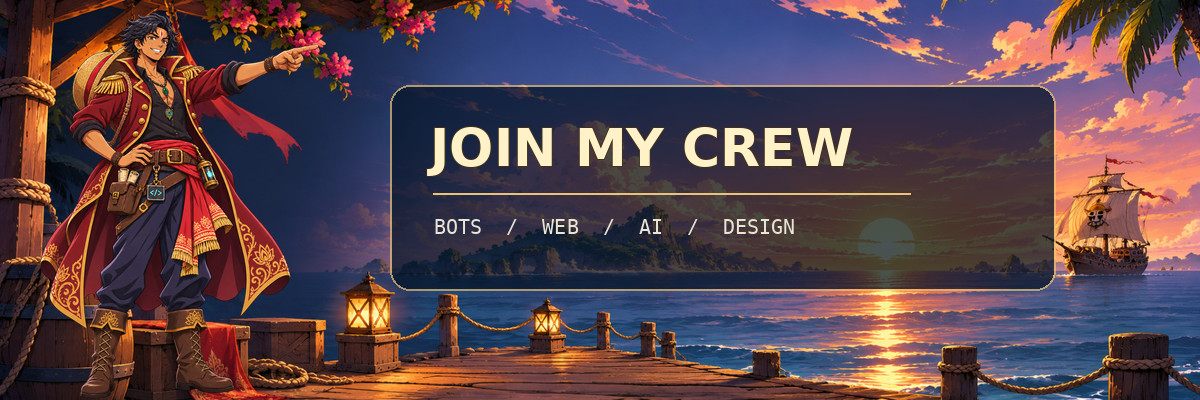
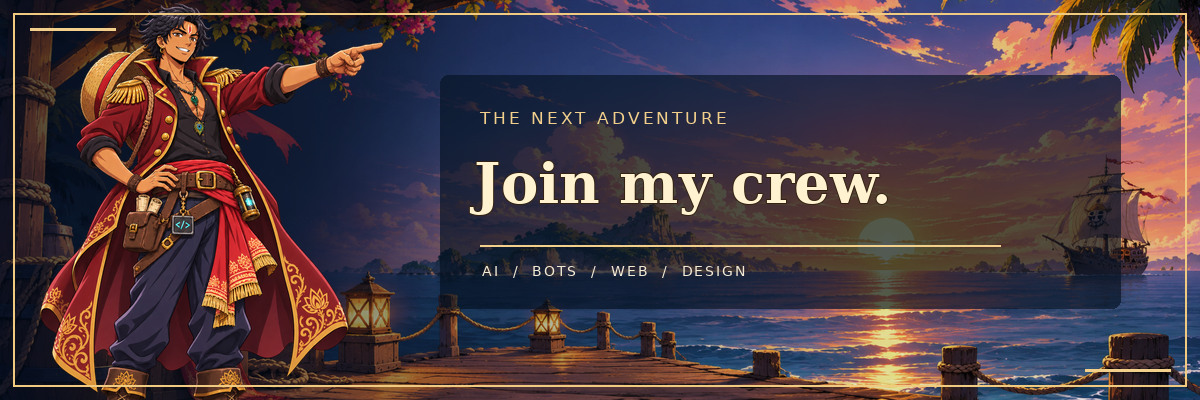
Refine pirate profile visual design

diff --git a/scripts/profile.py b/scripts/profile.py
@@ -105,30 +105,33 @@ def save_gif(frames, path, duration):
 
 
 def hero(path):
-    """Compose a restrained loop from the user's ocean illustration, once."""
+    """Compose a data-independent, subtle light loop over the ocean artwork."""
     source = Image.open(ROOT/'assets/one-piece/hero-ocean.jpg').convert('RGB')
     base = ImageOps.fit(source, (1200, 410), method=Image.Resampling.LANCZOS)
     overlay = Image.new('RGBA', base.size)
     shade = ImageDraw.Draw(overlay)
-    for x in range(750):
-        shade.line((x, 0, x, 410), fill=(2, 13, 31, int(180 * max(0, 1-x/750))))
+    for x in range(780):
+        shade.line((x, 0, x, 410), fill=(2, 13, 31, int(190 * max(0, 1-x/780))))
     base = Image.alpha_composite(base.convert('RGBA'), overlay).convert('RGB')
-    d = ImageDraw.Draw(base)
-    text(d, (48, 56), 'THE GRAND LINE / DEVELOPER PROFILE', 15, '#f4d99d', mono=True)
-    text(d, (42, 104), 'KRISHNA', 76, '#fff1c8', bold=True)
-    d.line((49, 211, 512, 211), fill='#e9c27c', width=2)
-    text(d, (48, 230), 'CAPTAIN OF THE CODE SEAS', 23, '#ffe5a1', bold=True)
-    text(d, (48, 292), 'Developer  •  AI Systems  •  Discord Bots', 17, '#f8f3e6')
-    text(d, (48, 321), 'Web & Creative Design', 17, '#f8f3e6')
+    draw = ImageDraw.Draw(base)
+    draw.rectangle((13, 13, 1186, 396), outline='#d2ae6d', width=2)
+    draw.line((33, 30, 128, 30), fill='#f2d08b', width=3)
+    text(draw, (52, 54), 'THE GRAND LINE  /  DEVELOPER PROFILE', 15, '#f4d99d', mono=True)
+    title_font = ImageFont.truetype('DejaVuSerif-Bold.ttf', 87)
+    draw.text((47, 103), 'KRISHNA', font=title_font, fill='#fff2d0', stroke_width=1, stroke_fill='#3d2617')
+    draw.line((54, 221, 519, 221), fill='#f2d08b', width=2)
+    text(draw, (52, 241), 'CAPTAIN OF THE CODE SEAS', 23, '#ffe5a1', bold=True)
+    text(draw, (53, 304), 'DEVELOPER  /  AI  /  DISCORD  /  WEB', 15, '#f8f3e6', mono=True)
+    text(draw, (53, 330), 'CREATIVE DESIGN  •  INDIA', 15, '#f8f3e6', mono=True)
     frames = []
     for frame in range(16):
         image = base.copy()
-        draw = ImageDraw.Draw(image)
+        d = ImageDraw.Draw(image)
         phase = frame / 16 * math.tau
-        for x, y, offset in [(75, 368, 0), (236, 365, 1.4), (454, 75, 2.6), (550, 355, 4.1)]:
+        for x, y, offset in [(75, 371, 0), (240, 372, 1.4), (454, 70, 2.6), (550, 355, 4.1)]:
             glow = 0.5 + 0.5 * math.sin(phase + offset)
             color = (int(140 + 100*glow), int(115 + 95*glow), int(70 + 85*glow))
-            draw.ellipse((x-2, y-2, x+2, y+2), fill=color)
+            d.ellipse((x-2, y-2, x+2, y+2), fill=color)
         frames.append(image)
     save_gif(frames, path, 160)
 
@@ -138,20 +141,20 @@ def svg_text(x, y, value, size=18, fill=WHITE, weight=400, extra=''):
 
 
 def activity_svg(data):
-    header = f'<svg xmlns="http://www.w3.org/2000/svg" width="1200" height="300" viewBox="0 0 1200 300" role="img"><title>Krishna public GitHub activity</title><rect width="1200" height="300" rx="18" fill="{BG}"/><g font-family="DejaVu Sans,Arial,sans-serif">'
+    header = f'<svg xmlns="http://www.w3.org/2000/svg" width="1200" height="300" viewBox="0 0 1200 300" role="img"><title>Krishna public GitHub activity</title><rect width="1200" height="300" rx="8" fill="{BG}"/><rect x="12" y="12" width="1176" height="276" rx="4" fill="none" stroke="#987d50"/><g font-family="DejaVu Sans,Arial,sans-serif">'
     if not data:
         return header + svg_text(40, 78, 'ACTIVITY / FIRST REFRESH PENDING', 18, MINT, 600) + svg_text(40, 139, 'Account data will appear after the first successful workflow run.', 22) + svg_text(40, 200, 'No sample metrics. No borrowed contribution history.', 17, MUTED) + '</g></svg>'
     repos = data['repositories']
     originals = [repo for repo in repos if not repo['isFork']]
     languages = Counter(repo['primaryLanguage']['name'] for repo in originals if repo['primaryLanguage'])
     total = data['calendar']['totalContributions']
-    parts = [header, svg_text(36, 41, 'WORLD GOVERNMENT / PUBLIC RECORD', 16, MINT, 600), svg_text(1164, 41, data['updated_at'], 13, MUTED, extra='text-anchor="end"')]
+    parts = [header, svg_text(38, 47, 'PUBLIC RECORD  /  GITHUB', 17, MINT, 600), svg_text(1161, 47, data['updated_at'], 14, MUTED, extra='text-anchor="end"')]
     metrics = [(len(repos), 'PUBLIC REPOSITORIES'), (sum(r['stargazerCount'] for r in repos), 'STARS ON OWNED REPOS'), (total, 'CONTRIBUTIONS / PAST YEAR')]
     for index, (number, label) in enumerate(metrics):
         left = 36 + index*385
-        parts += [f'<rect x="{left}" y="65" width="358" height="122" rx="12" fill="{PANEL}" stroke="{LINE}"/>', svg_text(left+20, 122, f'{number:,}', 42, WHITE, 700), svg_text(left+20, 157, label, 12, MUTED)]
-    parts.append(svg_text(36, 222, 'TOP REPOSITORY LANGUAGES / NON-FORKS', 12, MUTED, 600))
-    parts.append(svg_text(36, 259, '  /  '.join(f'{language} · {count}' for language, count in languages.most_common(5)) or 'No primary language data yet', 18, VIOLET))
+        parts += [f'<rect x="{left}" y="65" width="358" height="126" rx="4" fill="{PANEL}" stroke="#466366"/>', f'<path d="M{left+20} 82h56" stroke="{MINT}" stroke-width="2"/>', svg_text(left+20, 142, f'{number:,}', 48, WHITE, 700, extra='font-family="Georgia,serif"'), svg_text(left+20, 170, label, 13, MUTED, 600)]
+    parts.append(svg_text(38, 229, 'TOP REPOSITORY LANGUAGES / NON-FORKS', 13, MUTED, 600))
+    parts.append(svg_text(38, 261, '  /  '.join(f'{language} · {count}' for language, count in languages.most_common(5)) or 'No primary language data yet', 18, VIOLET))
     return ''.join(parts) + '</g></svg>'
 
 

diff --git a/scripts/artwork.py b/scripts/artwork.py
@@ -1,25 +1,105 @@
-"""One-time composition of the footer from the supplied artwork."""
+"""Compose static profile panels once from the supplied artwork and transparent PNGs."""
 from pathlib import Path
 from PIL import Image, ImageDraw, ImageFont, ImageOps
 
 ROOT = Path(__file__).resolve().parents[1]
 ART = ROOT / 'assets/one-piece'
+W = 1200
+GOLD = '#f2d08b'
+CREAM = '#fff2d0'
+
+
+def serif(size):
+    return ImageFont.truetype('DejaVuSerif-Bold.ttf', size)
+
+
+def sans(size):
+    return ImageFont.truetype('DejaVuSans.ttf', size)
+
+
+def tracking(draw, xy, value, font, fill, spacing=4):
+    x, y = xy
+    for char in value:
+        draw.text((x, y), char, font=font, fill=fill)
+        x += draw.textlength(char, font=font) + spacing
+
+
+def scene(name, size, opacity=175):
+    im = ImageOps.fit(Image.open(ART/name).convert('RGB'), size, method=Image.Resampling.LANCZOS).convert('RGBA')
+    shade = Image.new('RGBA', size)
+    d = ImageDraw.Draw(shade)
+    for x in range(size[0]):
+        alpha = int(opacity * max(.16, 1-x/(size[0]*.82)))
+        d.line((x, 0, x, size[1]), fill=(3, 13, 30, alpha))
+    return Image.alpha_composite(im, shade)
+
+
+def frame(draw, height):
+    draw.rectangle((13, 13, W-14, height-14), outline=(241, 202, 130, 180), width=2)
+    draw.line((30, 29, 115, 29), fill=GOLD, width=3)
+    draw.line((W-115, height-30, W-30, height-30), fill=GOLD, width=3)
+
+
+def save(image, filename):
+    image.convert('RGB').save(ART/filename, quality=91, subsampling=0, optimize=True)
+
+
+def make_log():
+    im = scene('harbor-divider.jpg', (W, 390), 210)
+    captain = Image.open(ART/'captain-map.png').convert('RGBA')
+    captain.thumbnail((410, 545), Image.Resampling.LANCZOS)
+    # Preserve proportions; crop only below the waist, never the face or map.
+    im.alpha_composite(captain, (760, 5))
+    d = ImageDraw.Draw(im)
+    frame(d, 390)
+    tracking(d, (55, 72), '01  /  THE CAPTAIN’S LOG', sans(17), GOLD, 3)
+    d.text((52, 123), 'Ideas into', font=serif(66), fill=CREAM, stroke_width=1, stroke_fill='#332211')
+    d.text((52, 201), 'adventures.', font=serif(66), fill=CREAM, stroke_width=1, stroke_fill='#332211')
+    d.line((56, 304, 495, 304), fill=GOLD, width=2)
+    tracking(d, (58, 319), 'CODE  /  CREATIVITY  /  CURIOSITY', sans(13), '#ecdfc8', 1)
+    save(im, 'captains-log.jpg')
+
+
+def make_record():
+    im = Image.new('RGBA', (W, 390), '#0a1b2b')
+    d = ImageDraw.Draw(im)
+    for x in range(W):
+        c = int(12 + 13*x/W)
+        d.line((x, 0, x, 390), fill=(c, 37+c//3, 49+c//2, 255))
+    for x in range(420, 1200, 100):
+        d.arc((x, 30, x+210, 260), 210, 345, fill=(56, 102, 102, 110), width=1)
+    poster = Image.open(ART/'wanted-poster.jpg').convert('RGBA')
+    poster.thumbnail((240, 344), Image.Resampling.LANCZOS)
+    im.alpha_composite(poster, (66, (390-poster.height)//2))
+    d = ImageDraw.Draw(im)
+    frame(d, 390)
+    tracking(d, (370, 75), '02  /  WORLD GOVERNMENT', sans(17), GOLD, 3)
+    d.text((366, 130), 'The public', font=serif(64), fill=CREAM)
+    d.text((366, 206), 'record.', font=serif(64), fill=CREAM)
+    d.line((372, 302, 835, 302), fill=GOLD, width=2)
+    tracking(d, (373, 320), 'THE BOUNTY IS FICTIONAL', sans(15), '#a9d7d3', 2)
+    save(im, 'public-record.jpg')
+
 
 def make_footer():
-    background = Image.open(ART/'footer-harbor.jpg').convert('RGB')
-    background = ImageOps.fit(background, (1200, 400), method=Image.Resampling.LANCZOS).convert('RGBA')
-    shade = Image.new('RGBA', background.size)
-    draw = ImageDraw.Draw(shade)
-    draw.rounded_rectangle((390, 85, 1055, 290), 20, fill=(5, 19, 38, 185), outline=(237, 198, 116, 170), width=2)
-    background = Image.alpha_composite(background, shade)
+    im = scene('footer-harbor.jpg', (W, 400), 175)
+    overlay = Image.new('RGBA', im.size)
+    od = ImageDraw.Draw(overlay)
+    od.rounded_rectangle((440, 75, 1120, 308), 8, fill=(4, 17, 33, 165))
+    im = Image.alpha_composite(im, overlay)
     captain = Image.open(ART/'captain-pointing.png').convert('RGBA')
-    captain.thumbnail((340, 390), Image.Resampling.LANCZOS)
-    background.alpha_composite(captain, (35, 400-captain.height))
-    draw = ImageDraw.Draw(background)
-    draw.text((430, 117), 'JOIN MY CREW', font=ImageFont.truetype('DejaVuSans-Bold.ttf', 52), fill='#fff1c8', stroke_width=1, stroke_fill='#40301c')
-    draw.line((433, 193, 910, 193), fill='#e9c27c', width=2)
-    draw.text((434, 215), 'BOTS  /  WEB  /  AI  /  DESIGN', font=ImageFont.truetype('DejaVuSansMono.ttf', 20), fill='#e9e4d4')
-    background.convert('RGB').save(ART/'crew-footer.jpg', quality=90, subsampling=0, optimize=True)
+    captain.thumbnail((390, 480), Image.Resampling.LANCZOS)
+    im.alpha_composite(captain, (34, 0))
+    d = ImageDraw.Draw(im)
+    frame(d, 400)
+    tracking(d, (480, 108), 'THE NEXT ADVENTURE', sans(17), GOLD, 3)
+    d.text((474, 150), 'Join my crew.', font=serif(56), fill=CREAM, stroke_width=1, stroke_fill='#332211')
+    d.line((480, 245, 1000, 245), fill=GOLD, width=2)
+    tracking(d, (482, 263), 'AI  /  BOTS  /  WEB  /  DESIGN', sans(14), '#f3ead5', 2)
+    save(im, 'crew-footer.jpg')
+
 
 if __name__ == '__main__':
+    make_log()
+    make_record()
     make_footer()

diff --git a/README.md b/README.md
@@ -13,21 +13,19 @@ BCA graduate · India
 
 ## Captain’s log
 
-<img src="assets/one-piece/harbor-divider.jpg" alt="A sunlit harbor with a Straw Hat ship and Krishna-inspired details." width="100%" />
-
-<div align="center"><img src="assets/one-piece/captain-map.png" alt="Krishna's pirate captain holding a treasure map." width="260" /></div>
+<img src="assets/one-piece/captains-log.jpg" alt="Krishna’s pirate captain with his map at a sunlit harbor: Ideas into adventures." width="100%" />
 
 I’m **Krishna**, a BCA graduate from India building AI-powered systems, Discord bots, websites and creative digital experiences. I enjoy connecting practical automation with thoughtful interfaces, and designing cinematic gaming thumbnails with attention to composition, lighting and character detail.
 
-My interests include programming, anime, gaming and AI integrations. Currently exploring AI orchestration, community tools and responsive web experiences.
+**On the map:** AI orchestration · community tools · responsive web experiences · cinematic visuals
 
 ## World Government bounty dashboard
 
-<div align="center"><img src="assets/one-piece/wanted-poster.jpg" alt="Decorative wanted poster of Krishna, with a fictional pirate bounty." width="340" /></div>
+<img src="assets/one-piece/public-record.jpg" alt="Krishna’s decorative wanted poster and the words The public record; the bounty is fictional." width="100%" />
 
 The bounty is **fictional**. The public GitHub figures below come from this account’s latest successful refresh. Repository language counts describe primary languages of owned non-fork repositories; they are not a measure of proficiency.
 
-<a href="https://github.com/krishna3251?tab=repositories"><img src="assets/activity.svg?v=08fb94ad5b3a" alt="Public owned repositories, stars, contributions, repository languages and last successful refresh." width="100%" /></a>
+<a href="https://github.com/krishna3251?tab=repositories"><img src="assets/activity.svg?v=4a0362be46f2" alt="Public owned repositories, stars, contributions, repository languages and last successful refresh." width="100%" /></a>
 
 <!-- ACTIVITY:START -->
 <sub>Last successful refresh: **2026-11-02 05:13 UTC** · hourly + profile updates · public data only</sub>
@@ -56,10 +54,17 @@ The bounty is **fictional**. The public GitHub figures below come from this acco
 
 <img src="assets/one-piece/project-fleet.jpg" alt="Three pirate ships on a golden ocean, representing Krishna's project fleet." width="100%" />
 
-- **[Rukiya](https://github.com/rukia3287-jpg/rukiya)** — AI chatbot with orchestration and Discord / YouTube Live functionality.
-- **[Lxeus](https://github.com/krishna3251/lexus_dc)** — Discord community bot with moderation, utilities and integrations.
-- **[Web experiments](https://github.com/krishna3251/krish_pport)** — responsive interfaces, animated websites and modern web development.
-- **[Server Builder](https://github.com/krishna3251/server-builder-bot)** — a Discord bot for building community setups.
+**01 / [RUKIYA ↗](https://github.com/rukia3287-jpg/rukiya)**<br />
+AI chatbot with orchestration and Discord / YouTube Live functionality.
+
+**02 / [LXEUS ↗](https://github.com/krishna3251/lexus_dc)**<br />
+Discord community bot with moderation, utilities and integrations.
+
+**03 / [WEB EXPERIMENTS ↗](https://github.com/krishna3251/krish_pport)**<br />
+Responsive interfaces, animated websites and modern web development.
+
+**04 / [SERVER BUILDER ↗](https://github.com/krishna3251/server-builder-bot)**<br />
+A Discord bot for building community setups.
 
 ## Grand line of contributions
 

diff --git a/docs/PROFILE.md b/docs/PROFILE.md
@@ -24,7 +24,7 @@ The supplied One Piece-inspired artwork lives in `assets/one-piece/`. The five o
 
 `assets/hero.gif` is composed by `hero()` in `scripts/profile.py` from `hero-ocean.jpg`. Its first frame contains the full title and role. Only a few decorative lights pulse; the ship itself does not move. It is committed once and is not re-encoded by hourly refreshes. To rebuild it after changing the artwork or hero code, remove `assets/hero.gif`, then run `python scripts/profile.py --snapshot assets/activity.json`. Inspect and commit the rebuilt GIF. Keep it below 2 MB.
 
-The footer combines `footer-harbor.jpg` and the transparent `captain-pointing.png`. After editing those sources, regenerate `crew-footer.jpg` with `python scripts/artwork.py`, then review and commit it. The fruit illustration is a self-contained static SVG, so it does not rely on SVG animation surviving GitHub sanitization. Important technologies, project descriptions and contact links also appear as text in the README.
+The Captain’s Log panel combines `harbor-divider.jpg` with `captain-map.png`, the public-record panel includes `wanted-poster.jpg`, and the footer combines `footer-harbor.jpg` with `captain-pointing.png`. After changing these sources or the compositing code, regenerate the three panels with `python scripts/artwork.py`, then review and commit the resulting JPEGs. The original character PNGs remain transparent. The fruit illustration is a self-contained static SVG, so it does not rely on SVG animation surviving GitHub sanitization. Important technologies, project descriptions and contact links also appear as text in the README.
 
 The sea chart uses each returned calendar day and its weekday, with a date range and total. Colors are computed from counts (0, 1, 2–3, 4–7, and 8+), not animated. The moving outlines are decorative and do not change cell fills. The chart is a compact visualization rather than GitHub's interactive per-day calendar; follow the image link to the account for the native calendar and per-day details. The dashboard lists the top five languages; the complete non-fork language distribution appears in the generated Markdown immediately below it.
 
